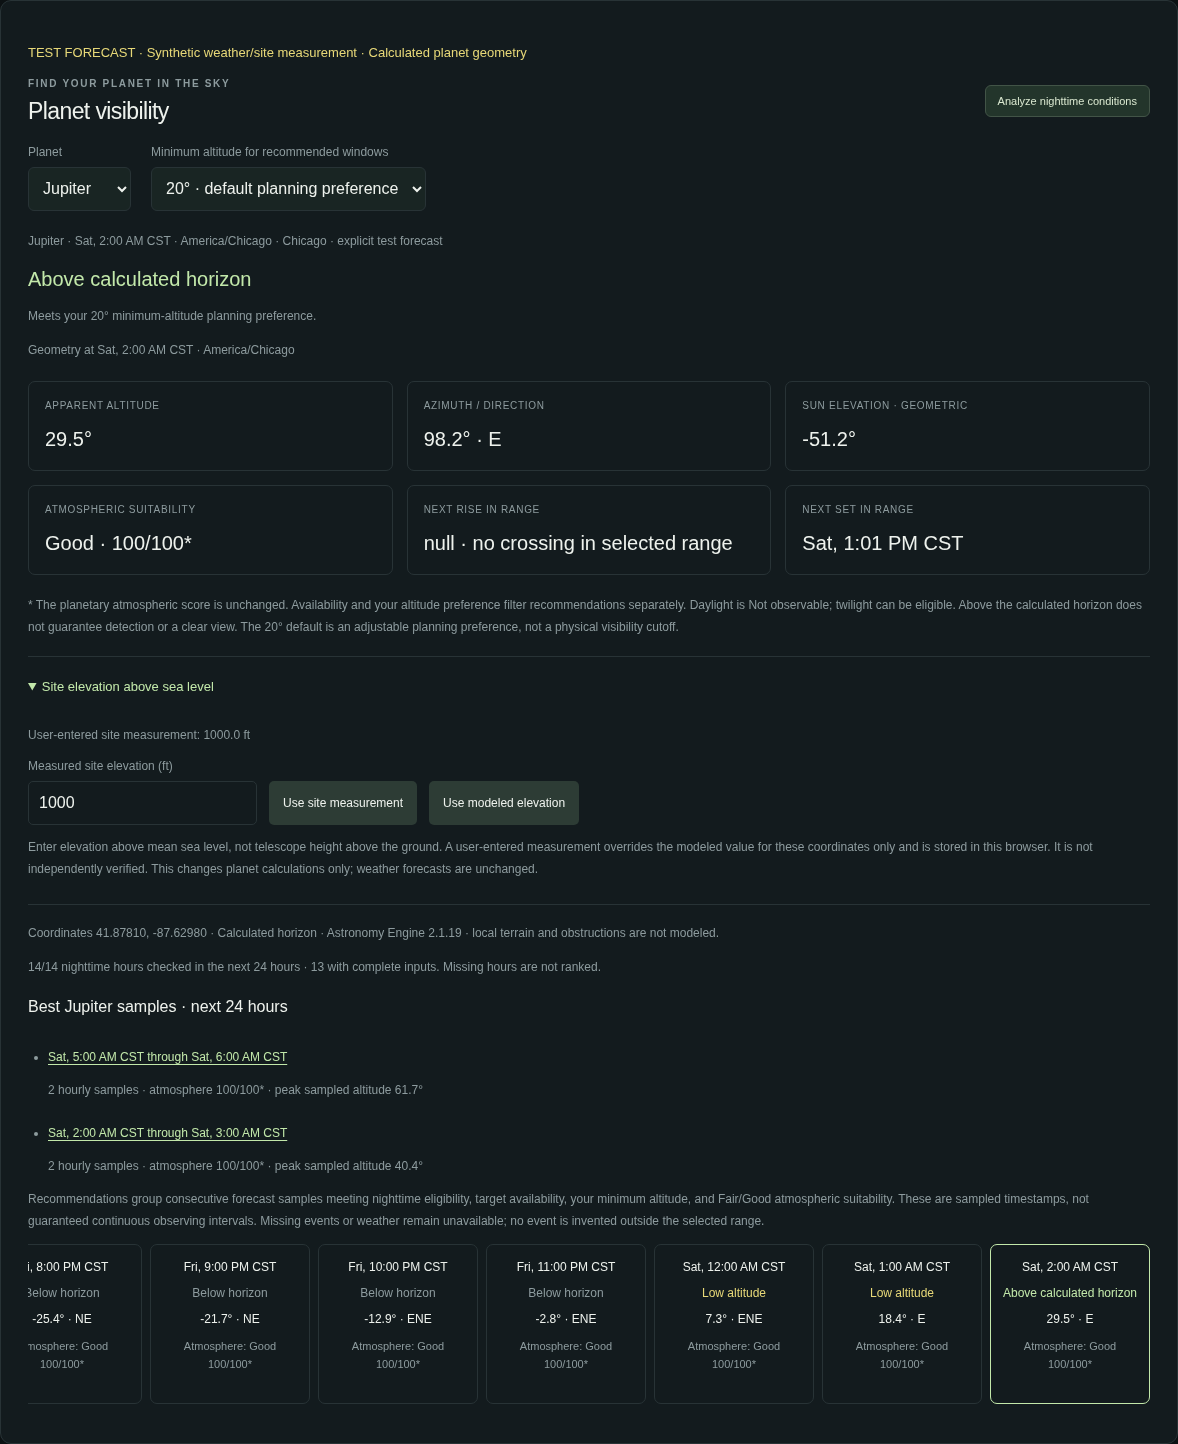
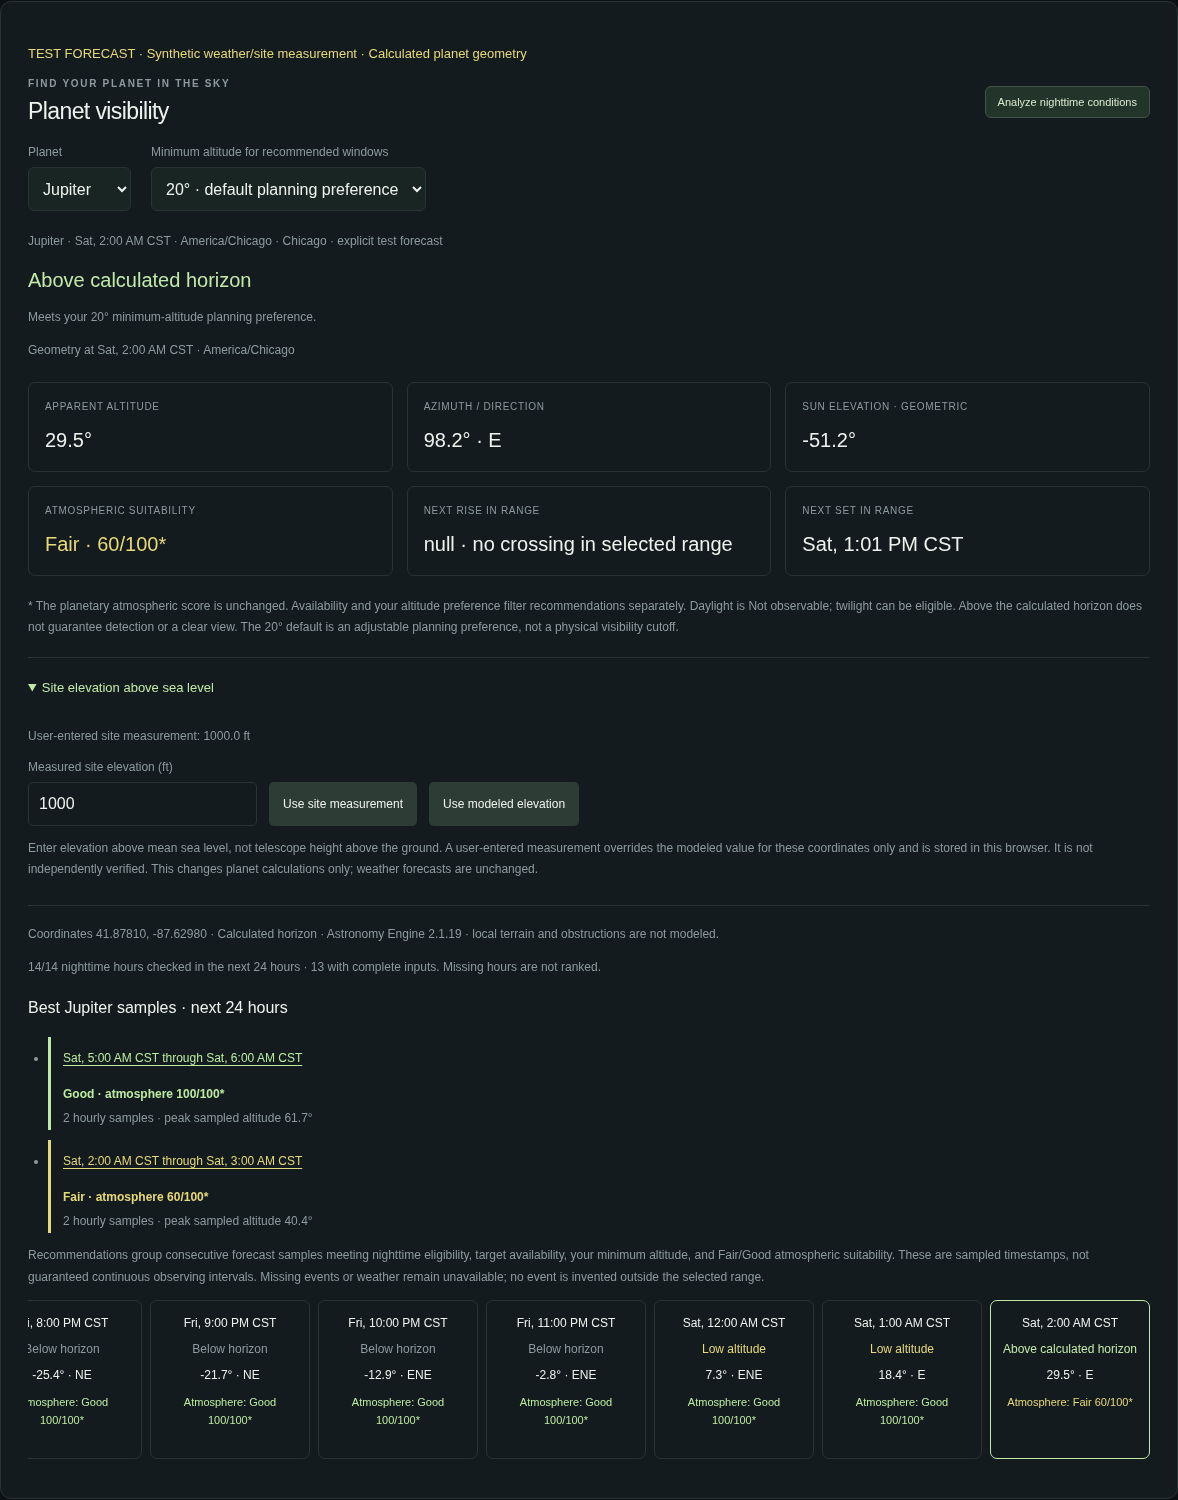
Color-code planetary sample ratings consistently with viewing grades

diff --git a/dist/planet-ui.js b/dist/planet-ui.js
@@ -36,8 +36,8 @@ function render(state,horizon,selected,format,onSelect,onAnalyze,units,onStop){
  for(const kind of ['rise','set']){const e=data.events.find(e=>e.kind===kind&&+e.date>t&&+e.date<limit);$('planet-'+kind).textContent=e?localTime(new Date(e.date)):'null · no crossing in selected range';}
  const groups=NightwatchPlanets.windows(hours,samples,minimum);
  $('planet-window-title').textContent='Best '+body+' samples · next '+horizon+' hours';
- $('planet-windows').innerHTML=groups.length?groups.map(g=>'<li><button data-planet-hour="'+g.indices[0]+'">'+escape(localTime(new Date(g.start)))+(g.end!==g.start?' through '+escape(localTime(new Date(g.end))):'')+'</button><span>'+g.scores.length+' hourly sample'+(g.scores.length===1?'':'s')+' · atmosphere '+g.average+'/100* · peak sampled altitude '+degrees(g.maxAltitude)+'</span></li>').join(''):'<li>No samples meet nighttime availability, your '+minimum+'° altitude preference, and Fair/Good atmospheric conditions with complete weather data. Analyze nighttime conditions or adjust the planning preference.</li>';
- $('planet-hours').innerHTML=hours.map((h,i)=>{const p=samples[i],a=NightwatchPlanets.availability(p,h,minimum),r=NightwatchImaging.analyze(h).find(r=>r.id==='planetary');return '<button class="planet-sample '+(i===selected?'selected':'')+'" data-status="'+a.code+'" data-planet-hour="'+i+'" aria-pressed="'+(i===selected)+'"><span>'+escape(localTime(h.date))+'</span><strong>'+escape(a.label)+'</strong><span>'+degrees(p?.altitude)+(p?' · '+p.direction:'')+'</span><small>Atmosphere: '+r.rating+(r.score===null?'':' '+r.score+'/100*')+'</small></button>'}).join('');
+ $('planet-windows').innerHTML=groups.length?groups.map(g=>{const quality=NightwatchImaging.band(g.average),label={good:'Good',fair:'Fair',marginal:'Marginal',poor:'Poor'}[quality]||'Unavailable';return '<li data-quality="'+quality+'"><button data-planet-hour="'+g.indices[0]+'">'+escape(localTime(new Date(g.start)))+(g.end!==g.start?' through '+escape(localTime(new Date(g.end))):'')+'</button><span class="planet-window-rating planet-quality" data-quality="'+quality+'">'+label+' · atmosphere '+g.average+'/100*</span><span>'+g.scores.length+' hourly sample'+(g.scores.length===1?'':'s')+' · peak sampled altitude '+degrees(g.maxAltitude)+'</span></li>'}).join(''):'<li>No samples meet nighttime availability, your '+minimum+'° altitude preference, and Fair/Good atmospheric conditions with complete weather data. Analyze nighttime conditions or adjust the planning preference.</li>';
+ $('planet-hours').innerHTML=hours.map((h,i)=>{const p=samples[i],a=NightwatchPlanets.availability(p,h,minimum),r=NightwatchImaging.analyze(h).find(r=>r.id==='planetary');return '<button class="planet-sample '+(i===selected?'selected':'')+'" data-status="'+a.code+'" data-planet-hour="'+i+'" aria-pressed="'+(i===selected)+'"><span>'+escape(localTime(h.date))+'</span><strong>'+escape(a.label)+'</strong><span>'+degrees(p?.altitude)+(p?' · '+p.direction:'')+'</span><small class="planet-quality" data-quality="'+r.band+'">Atmosphere: '+r.rating+(r.score===null?'':' '+r.score+'/100*')+'</small></button>'}).join('');
 }
 function refresh(){if(context){const c=context;render(c.state,c.horizon,c.selected,c.format,c.onSelect,c.onAnalyze,c.units,c.onStop)}}
 $('planet-body').onchange=e=>{body=e.target.value;try{localStorage.setItem('nightwatch-planet',body)}catch{}refresh()};

diff --git a/dist/style.css b/dist/style.css
@@ -57,3 +57,13 @@ footer{line-height:1.8;padding-bottom:max(24px,env(safe-area-inset-bottom))}dial
 .planet-panel h3{font-size:16px;font-weight:500;line-height:1.6}
 
 #planet-stop[hidden]{display:none}
+
+.planet-quality[data-quality=poor],#planet-atmosphere[data-quality=poor],#planet-windows li[data-quality=poor]{--planet-quality:#f28b88}
+.planet-quality[data-quality=marginal],#planet-atmosphere[data-quality=marginal],#planet-windows li[data-quality=marginal]{--planet-quality:#f2b278}
+.planet-quality[data-quality=fair],#planet-atmosphere[data-quality=fair],#planet-windows li[data-quality=fair]{--planet-quality:#e7d878}
+.planet-quality[data-quality=good],#planet-atmosphere[data-quality=good],#planet-windows li[data-quality=good]{--planet-quality:#bceaa1}
+.planet-quality[data-quality=unavailable],#planet-atmosphere[data-quality=unavailable],#planet-windows li[data-quality=unavailable]{--planet-quality:#93a0a3}
+.planet-sample .planet-quality,#planet-atmosphere[data-quality],#planet-windows .planet-window-rating{color:var(--planet-quality,#93a0a3)}
+#planet-windows li[data-quality]{border-left:3px solid var(--planet-quality);padding-left:12px}
+#planet-windows li[data-quality] button{color:var(--planet-quality)}
+#planet-windows .planet-window-rating{font-weight:700;margin:3px 0}

diff --git a/docs/planet-visibility.md b/docs/planet-visibility.md
@@ -30,6 +30,8 @@ The default minimum altitude is **20°**, adjustable to 0°, 10°, 20°, 30° or
 
 The atmospheric panel reuses the existing validated CMC seeing/transparency and weather inputs via `NightwatchImagingUI.input`. No naked placeholder values or missing-to-excellent fallback is used. “Analyze nighttime conditions” and “Stop analysis” share the advisor's existing on-demand nighttime CMC workflow. Missing inputs remain Insufficient data. The generic planetary/lunar advisor and its target-availability caveats remain unchanged.
 
+Atmospheric ratings in the best-sample entries, selected-hour field and hourly strip use the existing suitability bands and colors: Poor red, Marginal orange, Fair yellow, Good green, unavailable gray. Best entries include the text label and mean score, with matching time-link/left-border colors. Availability labels remain independent. Best windows continue to admit only Fair/Good conditions; adding colors does not change scores or eligibility.
+
 Target-specific best windows require nighttime eligibility, calculated target above the horizon, altitude preference met, and a complete Fair/Good planetary atmospheric rating. Ineligible, low-altitude, missing-weather and missing-geometry samples break groups and never enter averages. Group consecutive original forecast timestamps; rank by mean atmospheric score, peak sampled altitude, then earliest timestamp, showing at most three windows. These are sampled timestamps, not guaranteed continuous observing intervals. Clicking a sample/window selects the original shared weather/imaging/map hour.
 
 ## Site elevation above mean sea level
